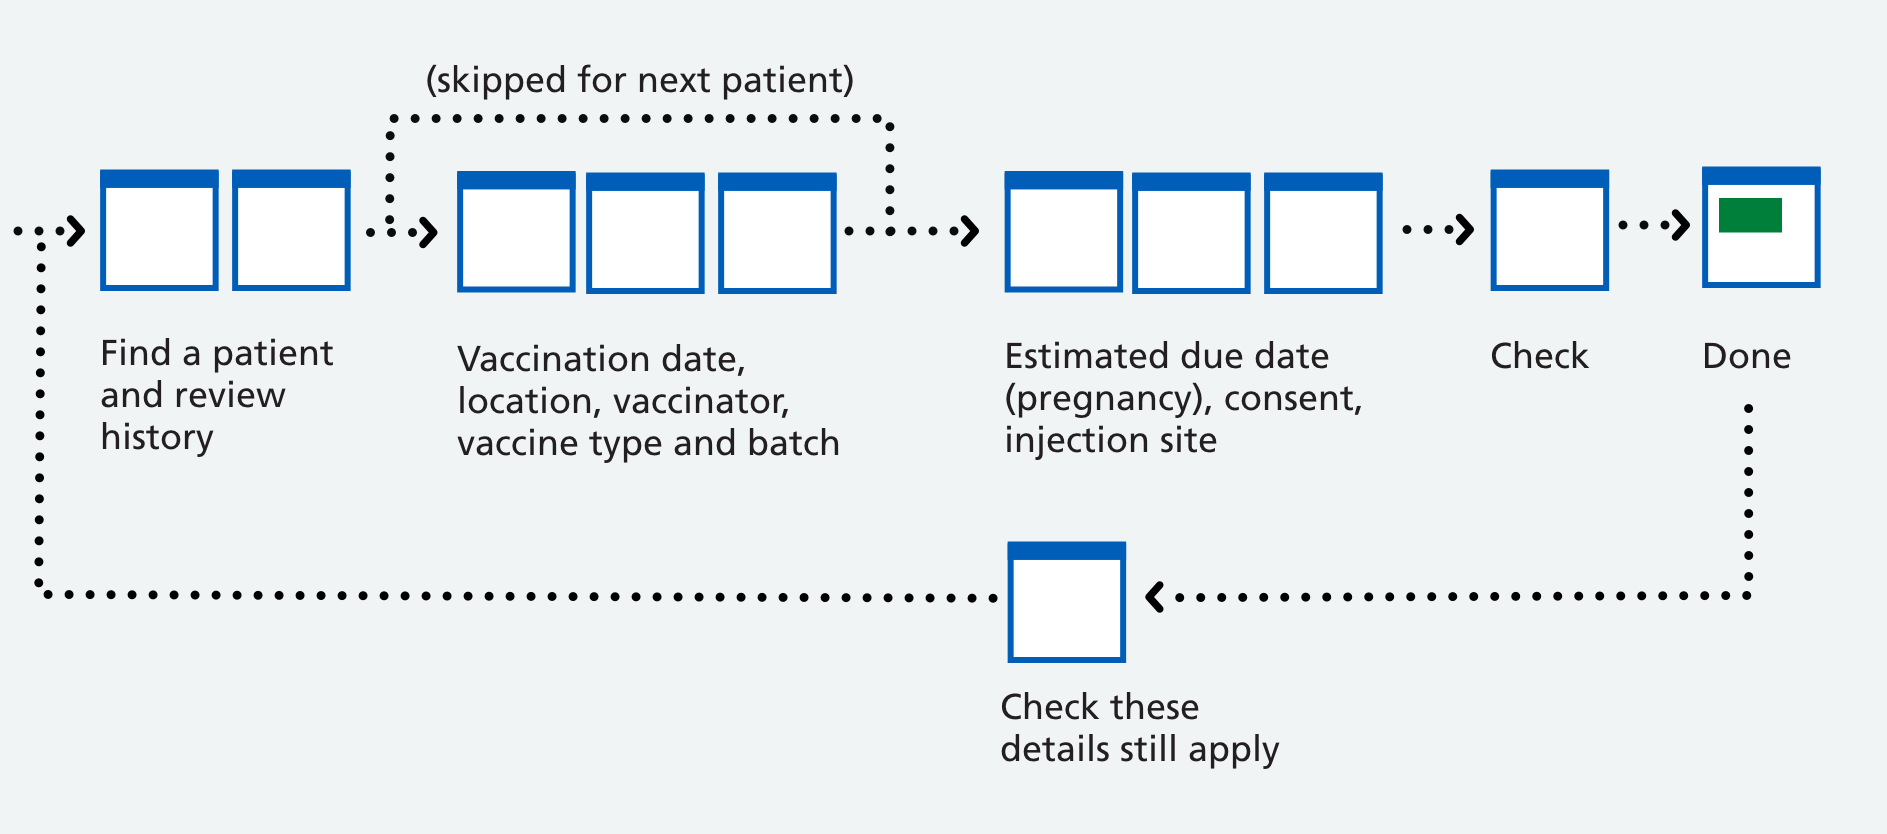
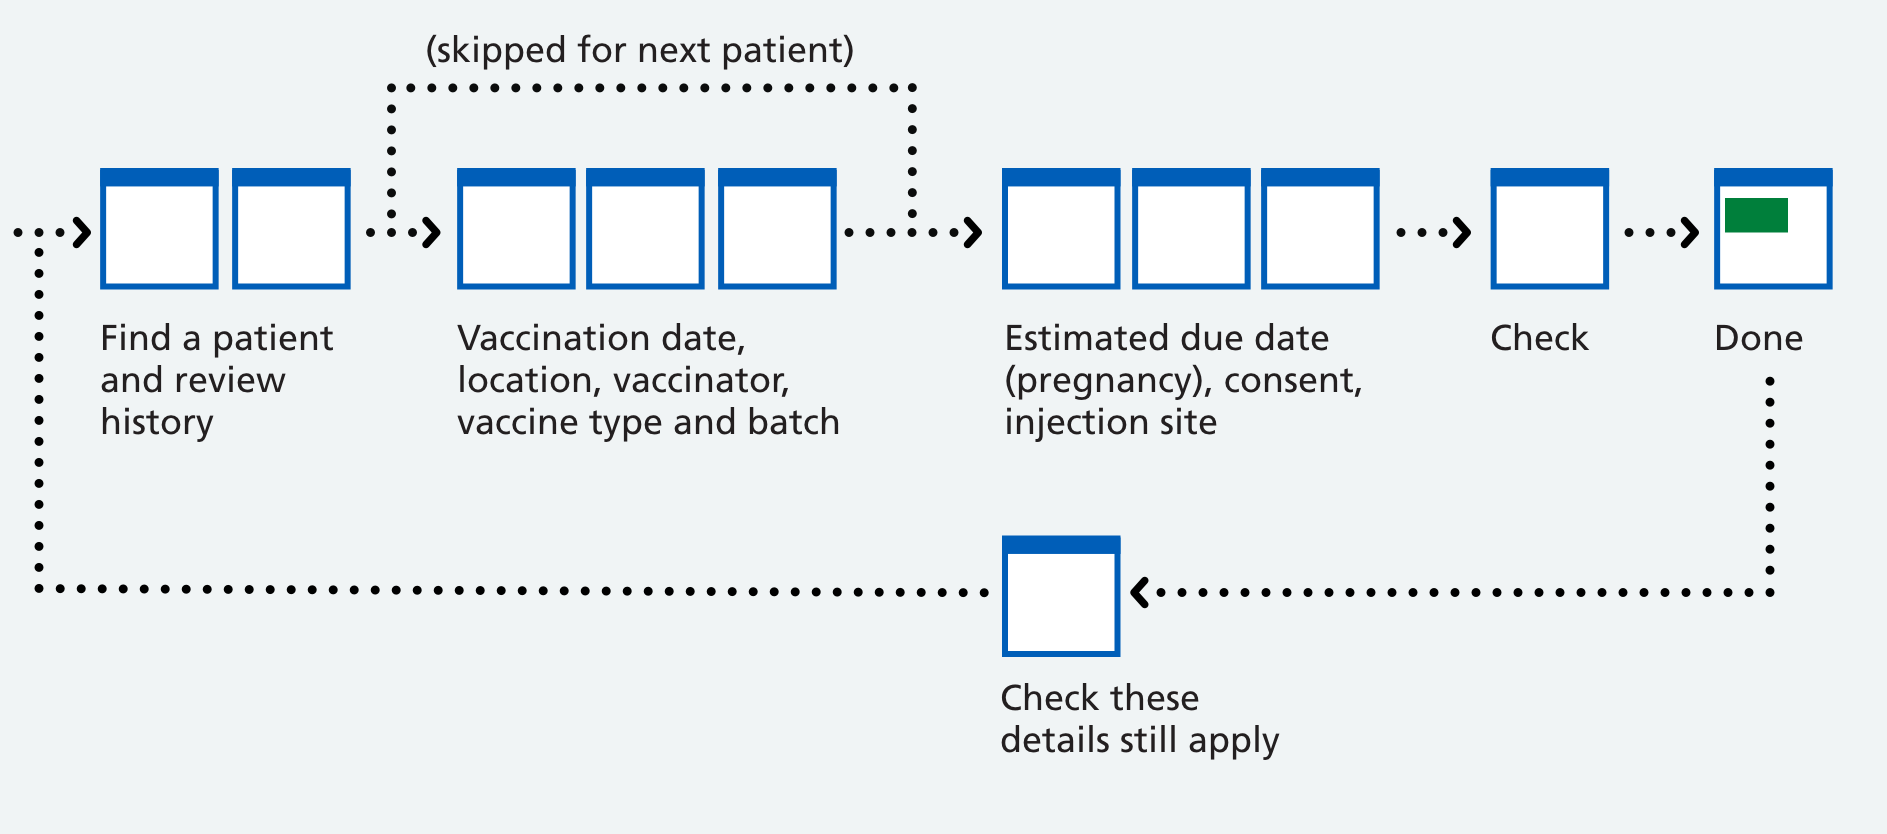
Update diagrams and date

diff --git a/app/record-a-vaccination/2026/04/finding-the-patient-first/index.md b/app/record-a-vaccination/2026/04/finding-the-patient-first/index.md
@@ -1,10 +1,14 @@
 ---
 title: Finding the patient first
 description: Why we’ve changed the order of questions when recording vaccinations
-date: 2026-04-09
+date: 2026-04-10
 tags:
   - questions
   - ordering
+image:
+  src: /record-a-vaccination/2026/04/finding-the-patient-first/question-order-changes.png
+  alt: Diagram showing two pages in a flow being moved to the start
+  opengraphImage: true
 ---
 
 When we redesigned the interface for recording vaccinations to [ask fewer, better questions](/record-a-vaccination/2025/03/asking-fewer-better-questions/), we also changed the order in which the questions were asked.
@@ -54,6 +58,8 @@ We also discovered that some users are using RAVS to proactively check whether a
 ## What we changed
 
 In response to the feedback, we’ve changed the order so that the step of finding the patient and seeing their details now comes first, followed by the other questions.
+
+This diagram shows the new flow:
 
 ![Diagram showing a flow with a first set of questions labelled ‘Vaccination date, location, vaccinator, vaccine type and batch’, followed by another set labelled ‘Find a patient and review history’, followed by ‘Estimated due date (pregnancy), consent, injection site’, then followed by a screen labelled ‘Check’ and one labelled ‘Done’. Then an arrow leads from the ‘Done’ screen to the group labelled ‘Find a patient’.](question-order-after.png "The new question order")
 
